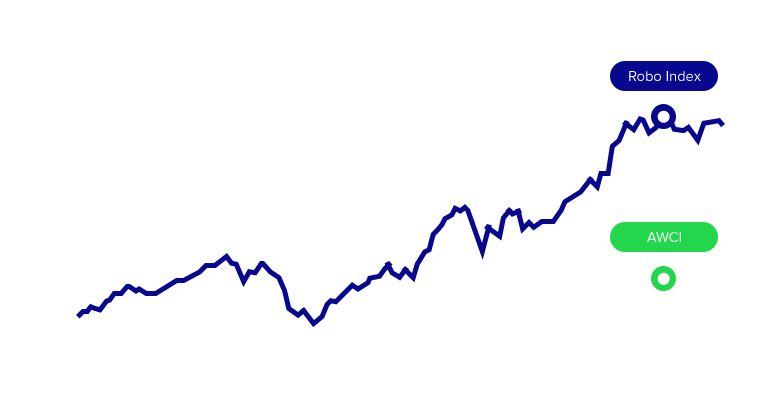
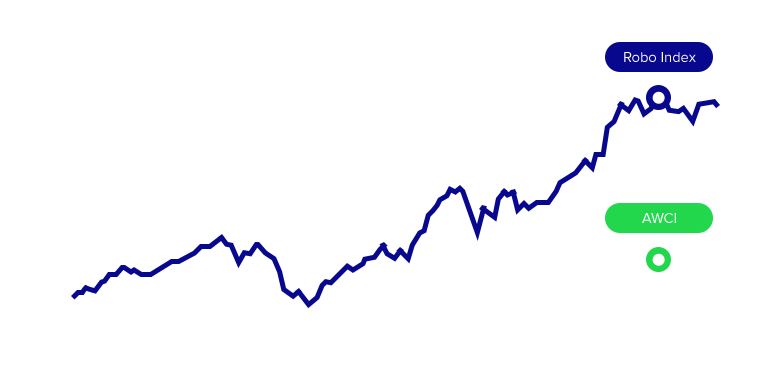
Updated main graph image on all index pages

diff --git a/app/assets/stylesheets/style.scss b/app/assets/stylesheets/style.scss
@@ -986,6 +986,12 @@ a.white-btn:hover {
   padding: 15px 15px 15px 44px;
   font-weight: 600;
 }
+.graph-container h3 {
+  font-size: 21px;
+  color: white;
+  text-align: center;
+  font-weight: 700;
+}
 /* ==========================================================================
    Age of Automation
    ========================================================================== */
